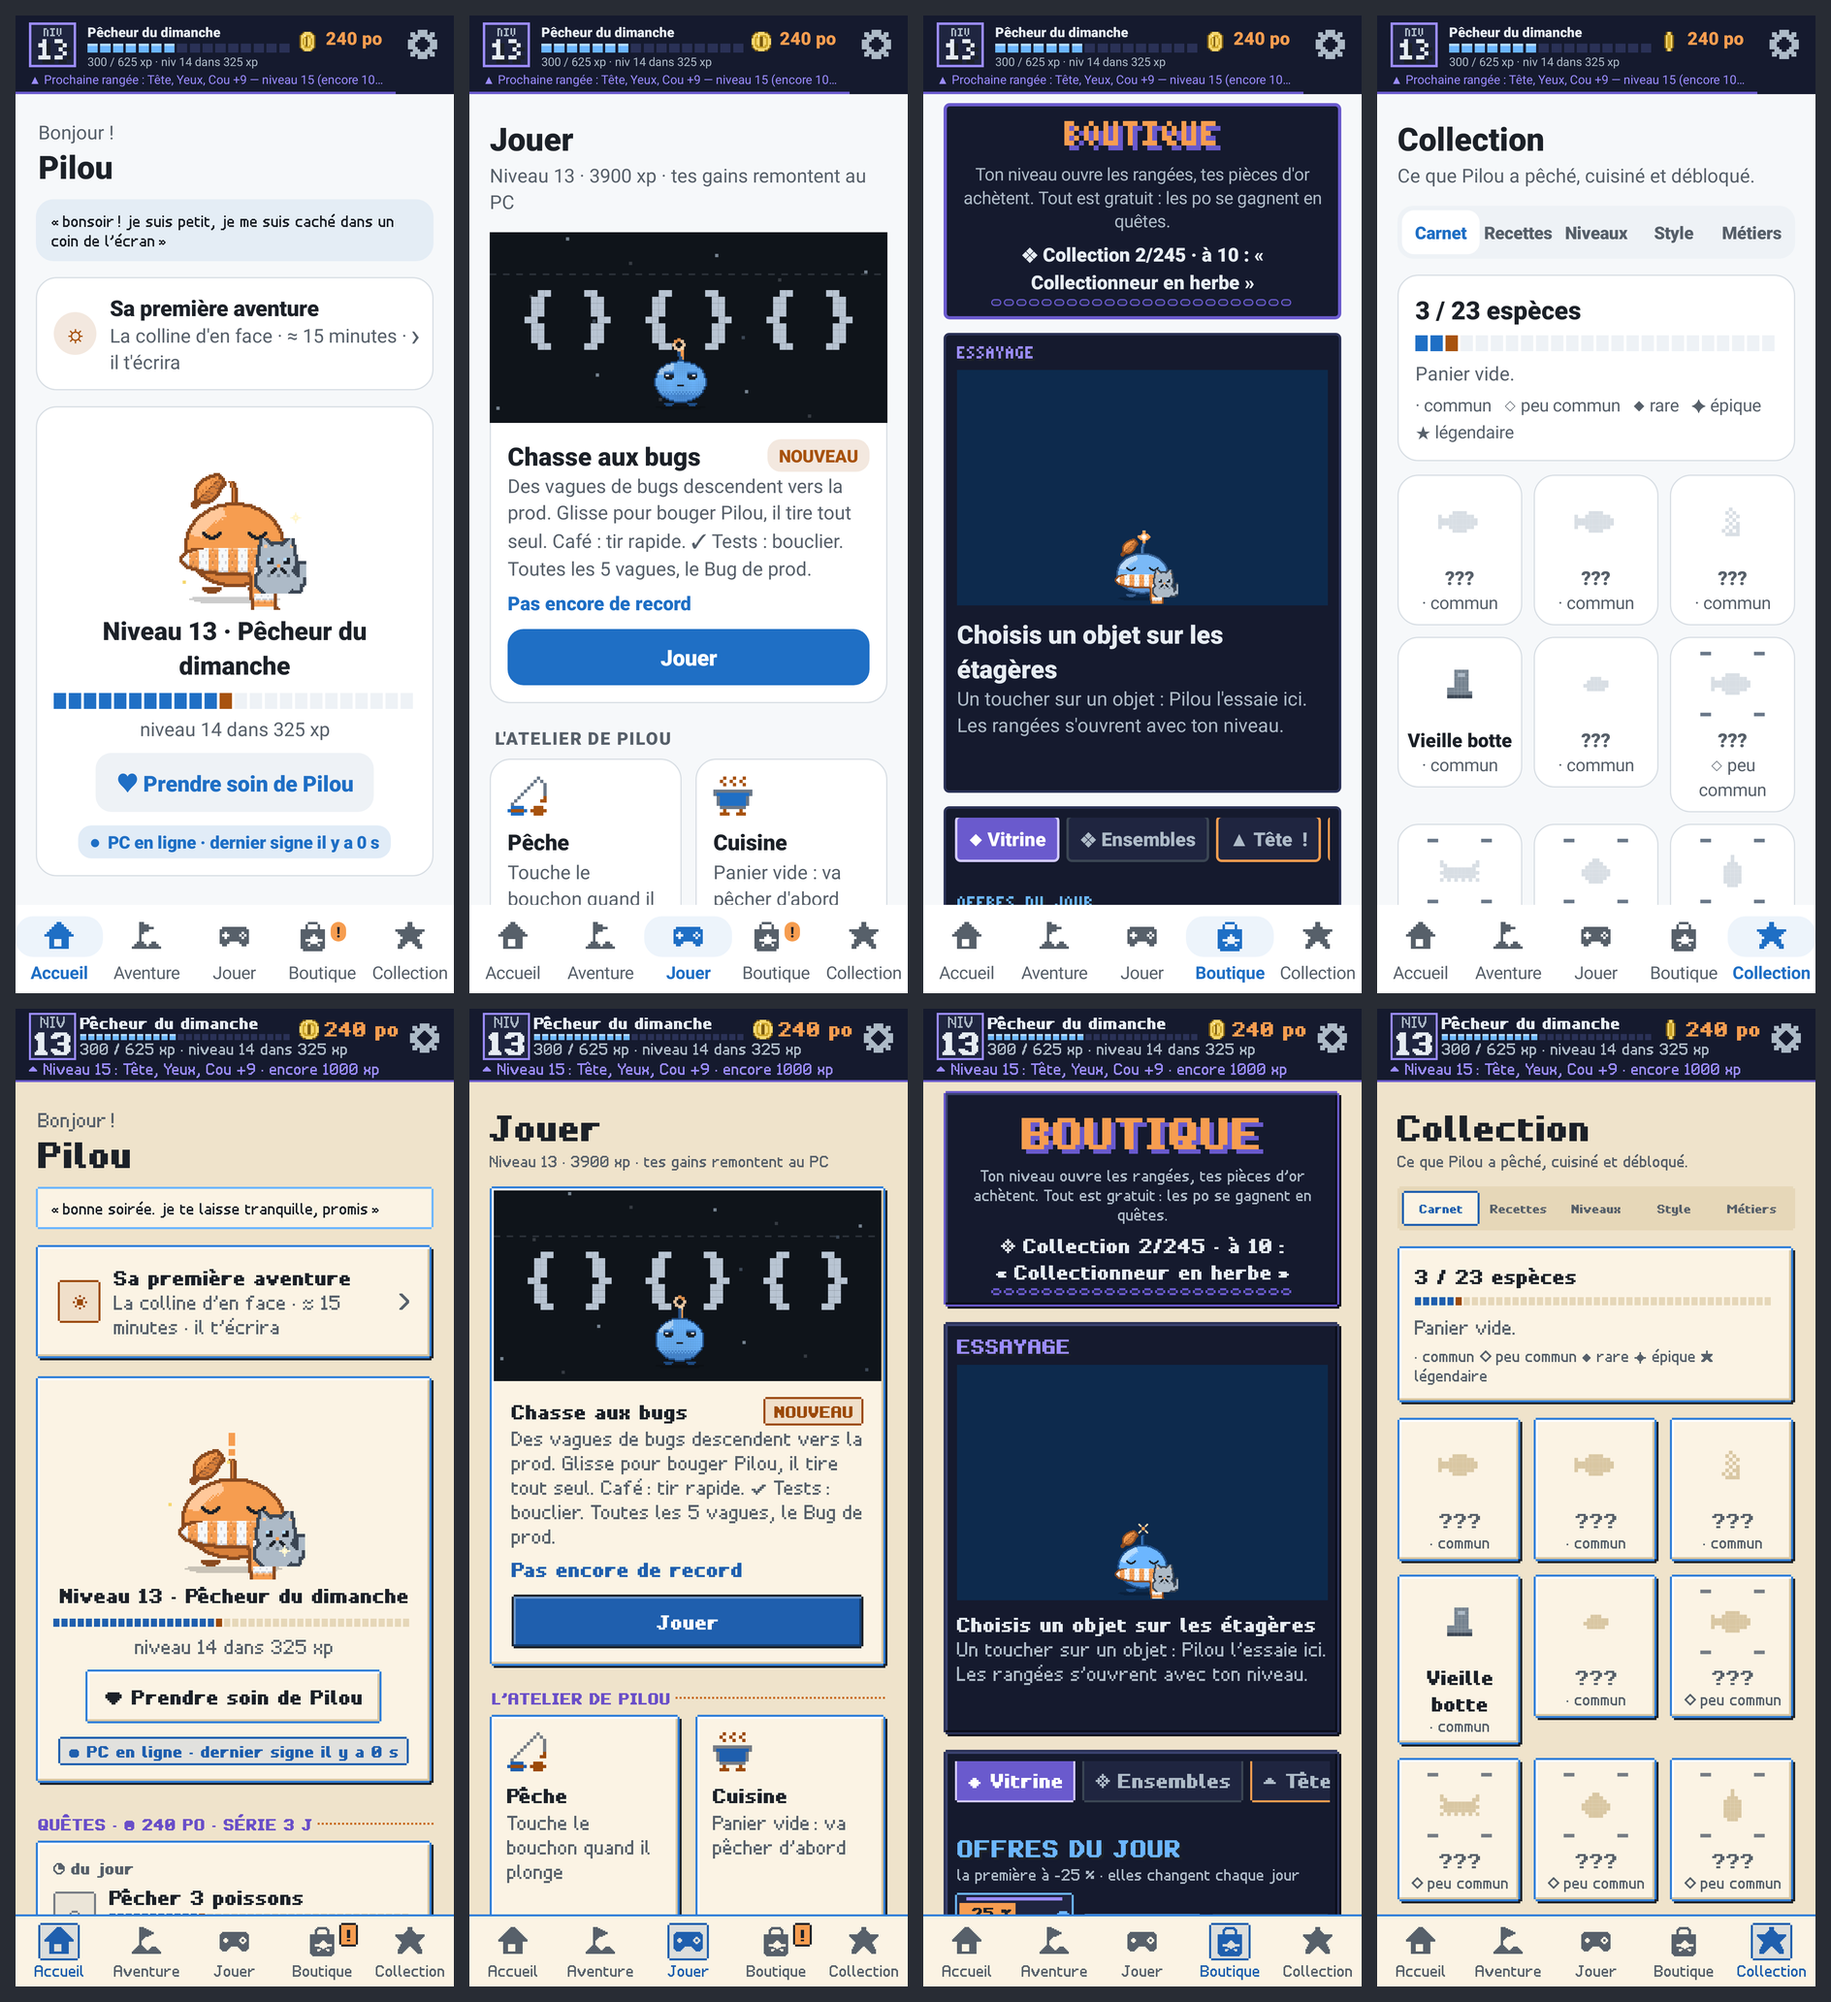
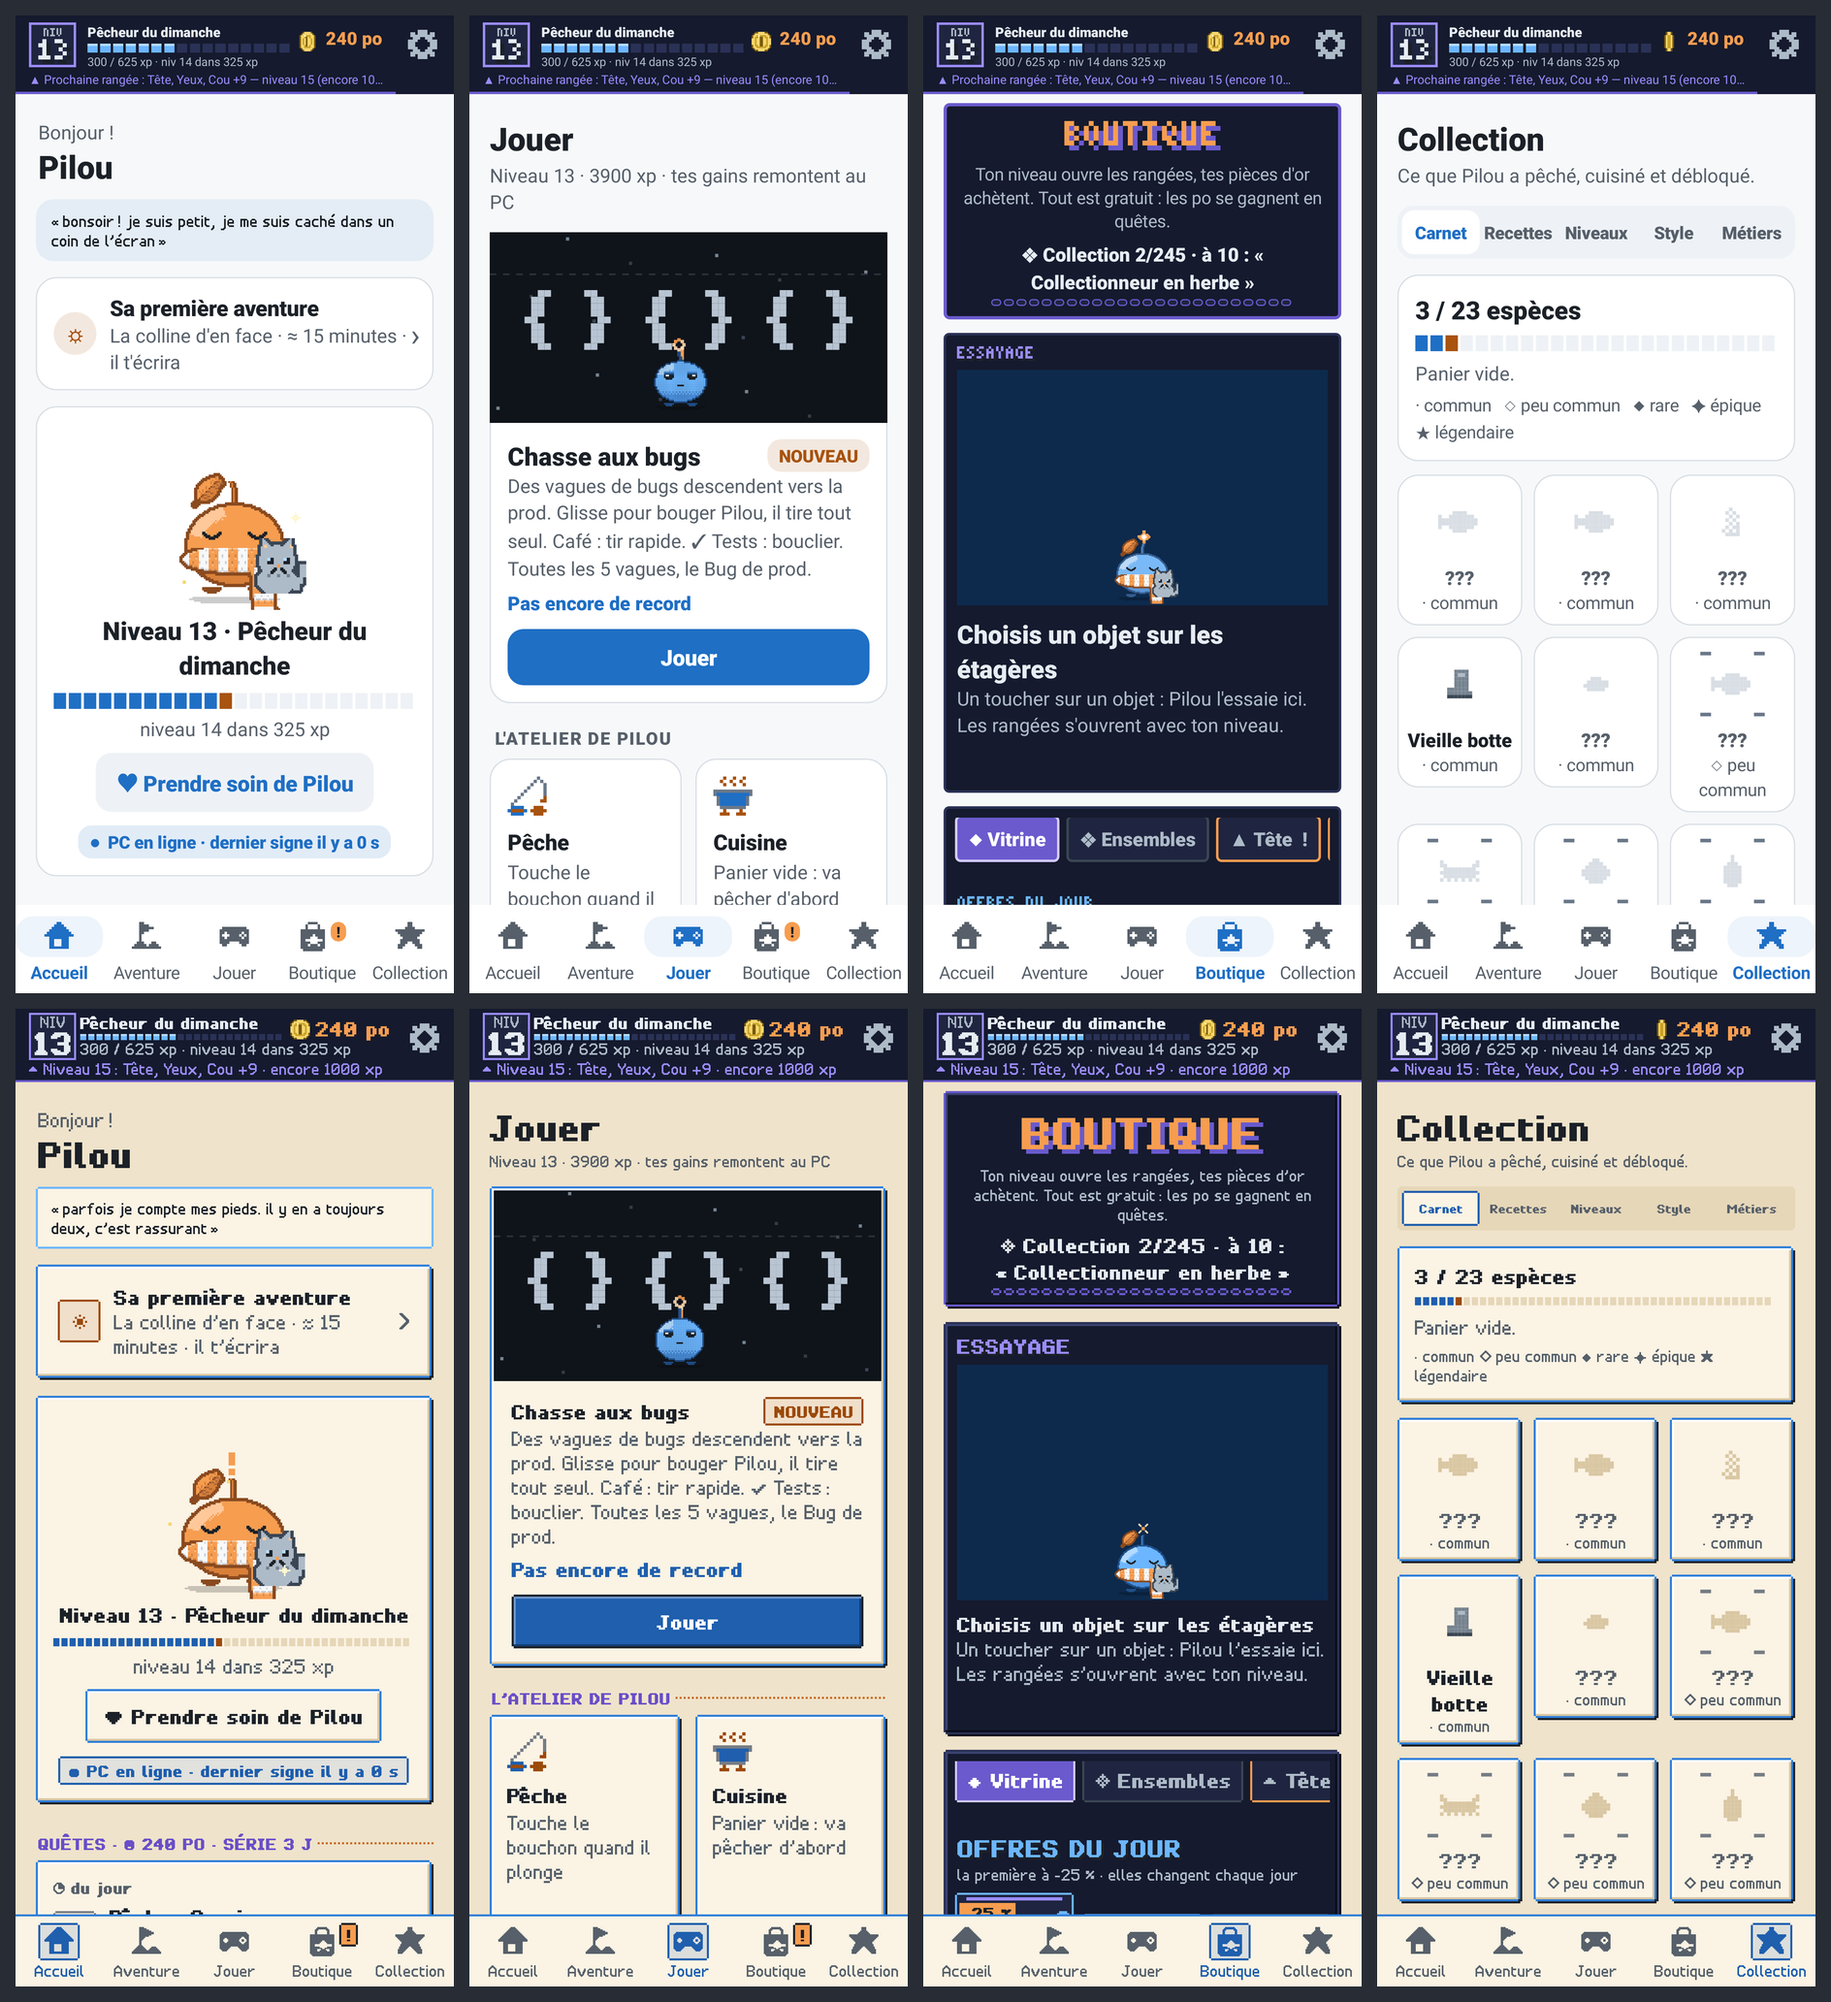
Guide de style : finitions après fusion de main
- Crénage du j retiré : le glyphe a été corrigé sur main (police-crenage)
- Accueil : légende de voyage sur une ligne courte, étiquette du décor en cadre plat et police pixel
- En-tête : les pièces d'or ne touchent plus le cadre de la roue ouverte
- ETAT.md : compte exact des sprites redessinés en fin ; planches avant / après régénérées

diff --git a/android/app/src/main/java/fr/pilou/compagnon/PageAccueil.java b/android/app/src/main/java/fr/pilou/compagnon/PageAccueil.java
@@ -278,11 +278,12 @@ final class PageAccueil extends Page {
         // Pilou en tenue de voyage pendant l'attente ; la légende dit où il en est.
         if (c != null && e.phase == Campagnes.Phase.Attente) {
             pilou.tenue("voyage-" + e.tenue);
-            legende.setText("⟶  " + (e.pendant.isEmpty() ? "en route" : e.pendant) + " · retour vers " + CampagnesTel.heure(e.fin));
+            // Ce qu'il fait est dit par la carte Aventure, juste au-dessus : la légende tient en une ligne courte.
+            legende.setText("→ en route · retour vers " + CampagnesTel.heure(e.fin));
             legende.setVisibility(View.VISIBLE);
         } else if (c != null && e.phase == Campagnes.Phase.Repos) {
             pilou.tenue("voyage-nuit");
-            legende.setText("☾  il se repose · reprise vers " + CampagnesTel.heure(e.fin));
+            legende.setText("☾ au repos · reprise vers " + CampagnesTel.heure(e.fin));
             legende.setVisibility(View.VISIBLE);
         } else {
             pilou.tenue("");
@@ -335,10 +336,15 @@ final class PageAccueil extends Page {
         Aventure.Scene sc = new Aventure.Scene(app);
         sc.regler(c.id, c.ton, e.decor);
         bande.addView(sc, new FrameLayout.LayoutParams(FrameLayout.LayoutParams.MATCH_PARENT, FrameLayout.LayoutParams.MATCH_PARENT));
-        TextView etiquette = Ui.puceScene(app, Aventure.signeTon(c.ton) + "  " + c.titre + (e.chapitreTotal > 0 ? "  ·  " + e.chapitreNumero + "/" + e.chapitreTotal : ""));
+        // Étiquette posée sur le décor : cadre plat de nuit, police pixel (une ligne ; un titre trop long finit par « … »).
+        Style.Texte etiquette = new Style.Texte(app, Aventure.signeTon(c.ton) + " " + c.titre + (e.chapitreTotal > 0 ? " · " + e.chapitreNumero + "/" + e.chapitreTotal : ""),
+                Style.PETIT, Vitrine.ARGENT_CLAIR, true);
+        etiquette.setSingleLine(true);
+        etiquette.setBackground(Style.plat(app, 0xe6151a2e, Vitrine.VIOLET_FONCE));
+        etiquette.setPadding(Style.u(app) + Ui.dp(app, 6), Style.u(app) + Ui.dp(app, 1), Style.u(app) + Ui.dp(app, 6), Style.u(app) + Ui.dp(app, 1));
         FrameLayout.LayoutParams le = new FrameLayout.LayoutParams(FrameLayout.LayoutParams.WRAP_CONTENT, FrameLayout.LayoutParams.WRAP_CONTENT, Gravity.TOP | Gravity.END);
         le.setMargins(Ui.dp(app, 12), Ui.dp(app, 10), Ui.dp(app, 12), 0);
-        etiquette.setMaxWidth(Ui.dp(app, 230));
+        etiquette.setMaxWidth(Ui.dp(app, 260));
         bande.addView(etiquette, le);
         PilouVue pv = new PilouVue(app, Aventure.pixelPour(app, 66), true);
         pv.equipe(Gains.porte(app, pc));

diff --git a/outils/sprites/police.py b/outils/sprites/police.py
@@ -352,9 +352,6 @@ creneau("Y", RONDES + ".,…", -1)
 creneau("L", "TVY’'", -1)
 creneau("r", ".,…", -1)
 creneau("f", ".,…", -1)
-# Le « j » garde deux colonnes vides à gauche de sa hampe (son crochet part sous la ligne) : après une lettre sans
-# jambage, il se rapproche d'un pixel (« bonjour » ne s'écrit plus « bon jour »).
-creneau("abcdehiklmnorstuvwxzàâäéèêëîïôöùûüçœæ", "j", -1)
 creneau("«‹", "  ", 0)
 creneau("  ", "»›", 0)
 creneau("lLdDjJ", "’'", 0)

diff --git a/android/app/src/main/java/fr/pilou/compagnon/Vitrine.java b/android/app/src/main/java/fr/pilou/compagnon/Vitrine.java
@@ -197,7 +197,7 @@ final class Vitrine {
             u = Style.u(c);
             pp = Style.pixel(c, Style.PETIT);
             pc = Math.max(pp, Style.pixel(c, Style.CORPS));
-            reserve = Ui.dp(c, 50);
+            reserve = Ui.dp(c, 58);
             setClickable(true);
             setFocusable(true);
         }

diff --git a/docs/ETAT.md b/docs/ETAT.md
@@ -19,15 +19,15 @@ Dernière mise à jour : 28 novembre 2026.
 - **Illustrations** : 46 décors animés en boucle, 69 portraits animés de 29 personnages (champs `personnage` et
   `expression` des nœuds, relus un par un le 27 novembre), 20 souvenirs, une vignette par campagne et un emblème par
   ton, objets exclusifs des fins.
-- **Dessin fin 2× sur les 643 sprites** (dont les 54 icônes d'interface, docs/STYLE.md) : plus aucun n'est agrandi automatiquement (`python3 outils/sprites/fin.py` :
-  « Encore agrandis automatiquement : 0 »).
+- **Dessin fin 2×** : 643 sprites redessinés sur 672, dont les 54 icônes d'interface (docs/STYLE.md) ; restent agrandis
+  automatiquement les 29 particules des saynètes (`sc-*`), d'après `python3 outils/sprites/fin.py`.
 - **Présence de Pilou** (docs/PRESENCE.md) : petits mots (banque de 573), cadence (3 par jour sur PC, 1 le soir sur
   téléphone), complicité, journal identique des deux côtés, prénom, « Pilou et moi ».
 - **Police pixel de Pilou** (docs/POLICE.md) : 223 glyphes dessinés à la main, tout le français, quatre tailles (texte,
   titre, et leur dessin fin), mise en page identique PC / Android. Première vague : la phrase de Pilou en tête de bulle
   (PC), le mot du jour dans la bulle flottante, l'Accueil et le widget (Android). Depuis le guide de style : tout
   l'Accueil, Jouer, la Boutique, la Collection, l'en-tête et la barre du bas du téléphone. « m », « w », « M », « W »
-  et « # » gras redessinés (le « m » gras était un pavé plein) ; « j » rapproché d'un pixel (« bonjour »).
+  et « # » gras redessinés (le « m » gras était un pavé plein).
 - **Guide de style** (docs/STYLE.md, 28 novembre 2026) : la main de Pilou écrite et mesurée sur le menu « Sept
   portes », la bulle et le cadre de l'Aventure : palette nommée (clair, sombre), module, cadre en pixels (bord, biseau,
   ombre portée, coins en escalier), tailles de police, états des boutons, titres de section, pointillés, puces ;

diff --git a/docs/POLICE.md b/docs/POLICE.md
@@ -43,8 +43,6 @@ rangée  0-1   accents des capitales      É Ê À Ç…
 - **Interligne** : 12 pixels (texte), 13 (titre).
 - **Titre** : le dessin du texte épaissi d'un pixel vers la droite (gras), mêmes formes. Cinq glyphes dont
   l'épaississement bouchait les creux sont redessinés à la main (`GRAS_MAIN` : m, w, M, W, #).
-- **Crénage** : quelques paires se rapprochent d'un pixel (T, F, P, V, Y, L, r, f ; et le « j » après une lettre sans
-  jambage).
 - **Accents** : composés (lettre nue + signe centré), pour que toutes les lettres accentuées aient le même accent.
 - **Signes** : ♥ ♡ ✓ ✗ ✧ ✦ ★ → ← ↑ ↓ ♪ ♫ ☁ ☀ ☾ ☂ ❄ ⚡ ☺ ▼ ▲ ▶ ◀ ● ○ ■ □ ◆, et `¤` dessiné comme une pièce
   (« po »).
